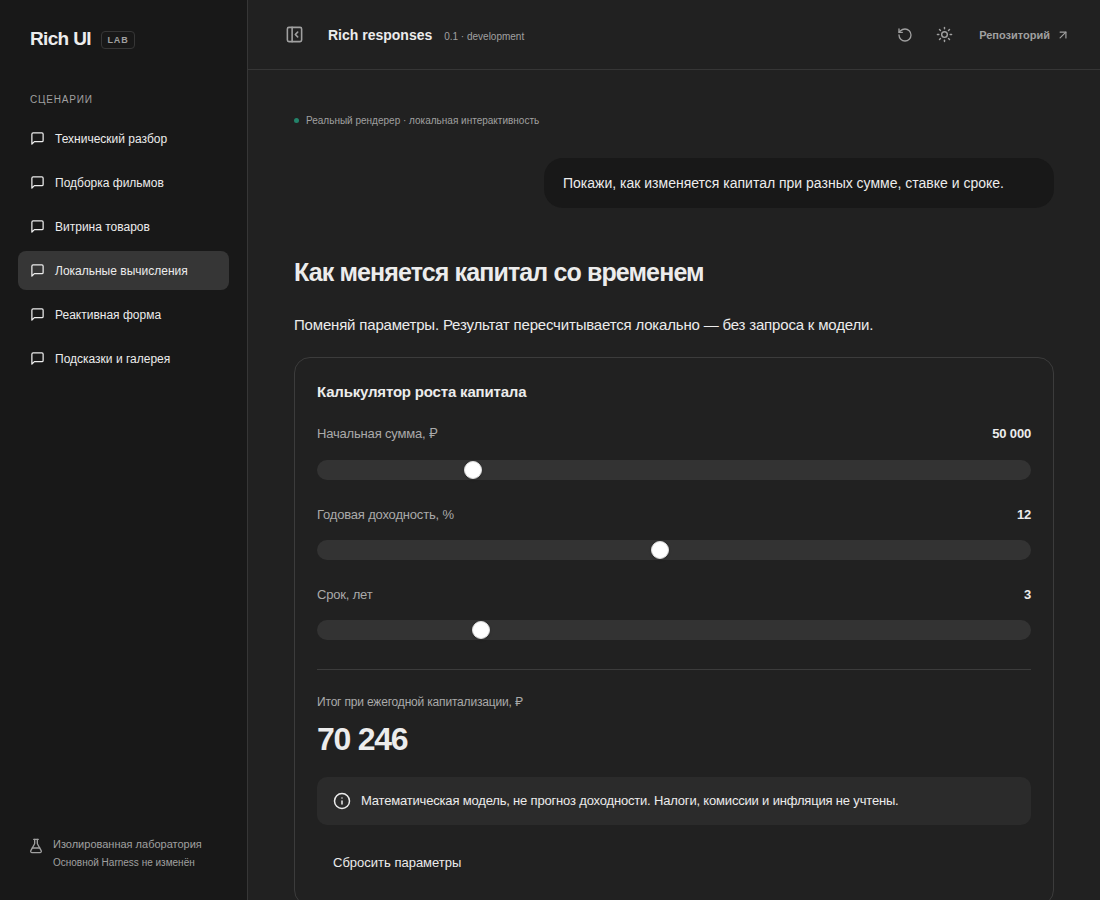
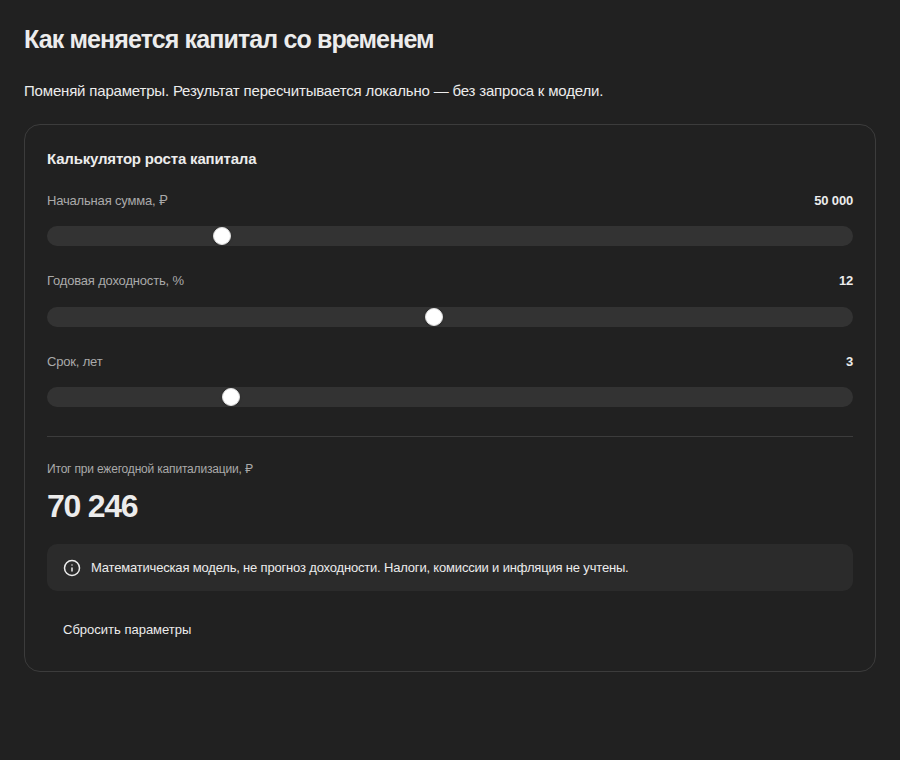
Show full-width product screenshots with captions

diff --git a/README.md b/README.md
@@ -28,12 +28,17 @@ A model can describe a comparison, but a wall of Markdown makes the reader do th
 
 The renderer is a real React tree behind a strict schema. There is no generated HTML, no `eval`, no shell access, and no page-level JavaScript from the model. Local controls recompute in the browser; the model is only called again when the reader explicitly asks.
 
-<table>
-  <tr>
-    <td width="50%"><img alt="Film collection with an open detail panel: posters, facts and sources" src="docs/images/films-desktop.png"></td>
-    <td width="50%"><img alt="A calculator with sliders that recompute the result locally" src="docs/images/calculator-dark.png"></td>
-  </tr>
-</table>
+<p align="center">
+  <img alt="Film collection reflowed beside an open detail panel with poster, facts and sources" src="docs/images/films-desktop.png" width="860">
+  <br>
+  <em>The detail panel opens beside the collection and the answer reflows around it.</em>
+</p>
+
+<p align="center">
+  <img alt="A calculator with sliders that recompute the result locally" src="docs/images/calculator-dark.png" width="700">
+  <br>
+  <em>Sliders recompute the number in the browser; the model is not called again.</em>
+</p>
 
 ## Install
 
